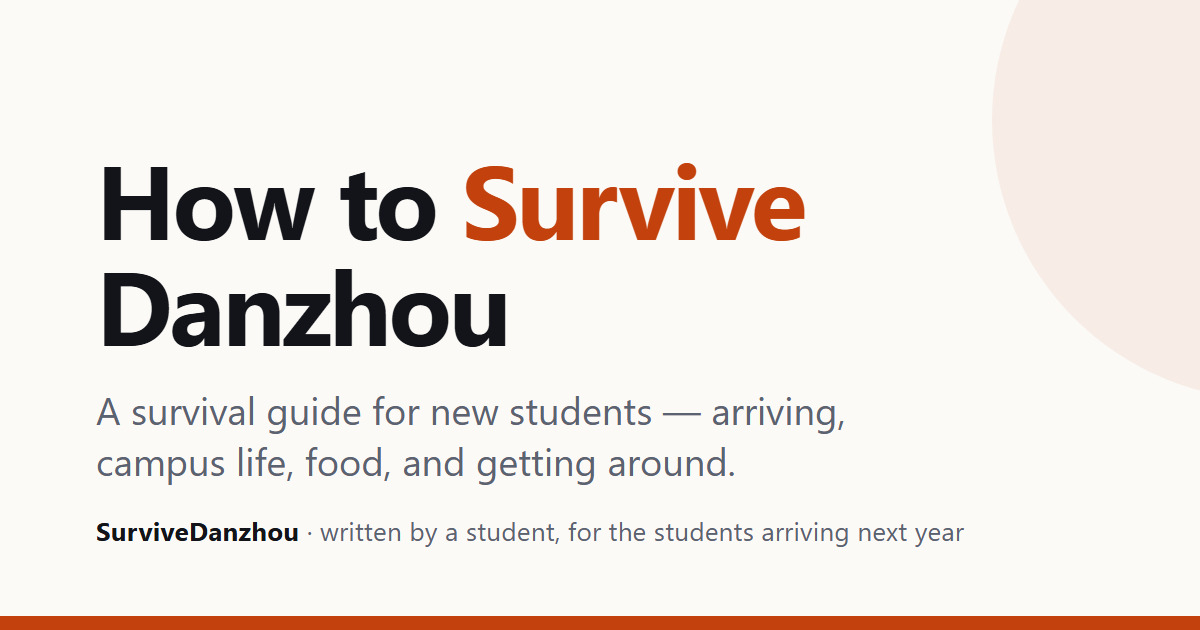
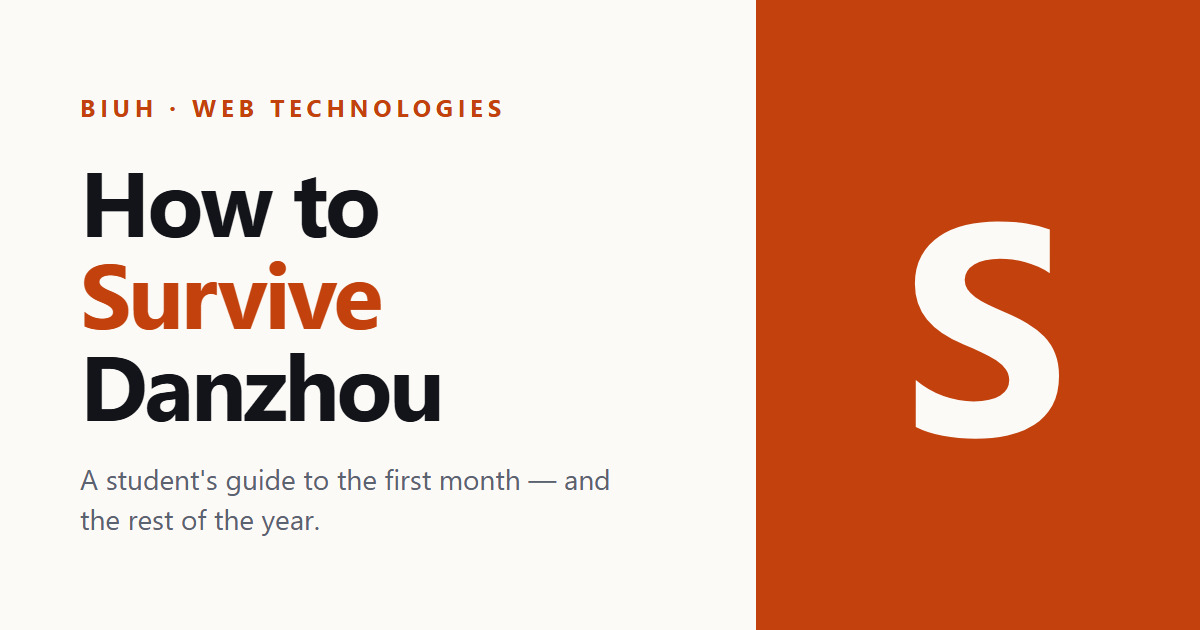
feat: redesign the Open Graph image as a split panel
The old version left the right half empty and its subtitle was unreadable at
the size a link preview is actually shown. New layout follows the deck's
'the title, big · one line on what it is · one visual':

- left column: title plus one sentence, 80 px away from the edge so cropped
  edges cannot clip the text
- right column: the same S mark used by favicon-32.png and apple-touch-icon.png,
  which satisfies the deck's 'same colours, same letter or mark' rule
- 1200x630, 72.3 KB (limit is 100 KB)

diff --git a/images/og-source.html b/images/og-source.html
@@ -6,81 +6,82 @@
 <!--
   ============================================================================
   This file is NOT part of the website. It is the source for images/og-image.jpg,
-  made the way the course suggests: build a 1200 × 630 box in HTML and CSS,
-  then screenshot it.
+  built the way the course suggests: lay it out in HTML and CSS, then screenshot it.
 
-  How to export it:
+  HOW TO EXPORT
     1. open this file in a browser
-    2. DevTools (F12) → Ctrl+Shift+P (Cmd+Shift+P on macOS)
-    3. type "Capture node screenshot"  → click the .canvas element first
-    4. save the result as images/og-image.jpg
+    2. DevTools (F12) → Ctrl+Shift+P  (Cmd+Shift+P on macOS)
+    3. type "Capture node screenshot" → click the .canvas element first
+    4. save as images/og-image.jpg, then check it is under 100 KB
 
-  Specs it must meet (from the project deck):
-    1200 × 630 px exactly · under 100 KB · title not touching the edges
+  SPECS IT MUST MEET (from the project deck, slide 12)
+    · 1200 × 630 px exactly
+    · under 100 KB
+    · the title must not touch the edges — some apps crop the sides
+
+  WHY THIS LAYOUT (slide 12: "the title, big · one line on what it is · one visual")
+    · left column  = title + one line describing the site
+    · right column = one visual: the same "S" mark used by favicon-32.png and
+      apple-touch-icon.png. Slide 16 asks for "the same colours, the same letter
+      or mark" across the poster, the app icon and the favicon — so the letter
+      here is deliberately the same one as in icon-source.html.
+    · everything sits inside a 64-80 px margin so cropped edges cannot eat text
   ============================================================================
 -->
 <style>
-  /* Same palette as the site, so the poster and the pages agree */
+  /* Same palette as the site, so the poster and the pages always agree */
   :root {
-    --paper: #fbfaf7;
-    --ink: #12141a;
-    --dim: #5b6270;
+    --paper:  #fbfaf7;
+    --ink:    #12141a;
+    --dim:    #5b6270;
     --accent: #c2410c;
   }
 
-  body {
-    margin: 0;
-    background: #8b8b8b;              /* grey surround so you can see the edges */
-    display: grid;
-    place-items: center;
-    min-height: 100vh;
-    font-family: -apple-system, BlinkMacSystemFont, "Segoe UI", Roboto,
-                 "Helvetica Neue", Arial, system-ui, sans-serif;
+  * { box-sizing: border-box; margin: 0; padding: 0; }
+
+  html, body {
+    width: 1200px;
+    height: 630px;
+    overflow: hidden;
+    background: #8b8b8b;              /* grey surround: makes the edges visible */
   }
 
-  /* ---- the actual 1200 × 630 canvas ---- */
+  /* ---- the 1200 × 630 canvas that gets screenshotted ---- */
   .canvas {
     width: 1200px;
     height: 630px;
+    display: flex;
+    overflow: hidden;
+    font-family: -apple-system, BlinkMacSystemFont, "Segoe UI", Roboto,
+                 "Helvetica Neue", Arial, system-ui, sans-serif;
+    -webkit-font-smoothing: antialiased;
+  }
+
+  /* ---- left: words ---- */
+  .left {
+    width: 63%;
     background: var(--paper);
     color: var(--ink);
-    position: relative;
-    overflow: hidden;
-    display: grid;
-    align-content: center;            /* vertical centring */
-    padding: 0 96px;
+    padding: 64px 40px 64px 80px;     /* 80 px on the crop side */
+    display: flex;
+    flex-direction: column;
+    justify-content: center;
   }
 
-  /* decorative: a soft warm wash in one corner, no image file needed */
-  .canvas::before {
-    content: "";
-    position: absolute;
-    right: -160px;
-    top: -160px;
-    width: 560px;
-    height: 560px;
-    border-radius: 50%;
-    background: var(--accent);
-    opacity: .07;
-  }
-  .canvas::after {
-    content: "";
-    position: absolute;
-    left: 0;
-    bottom: 0;
-    width: 100%;
-    height: 14px;
-    background: var(--accent);
-  }
-
-  /* A title long enough to be cut off if it hugged the edge — this one does not. */
-  .title {
-    font-size: 104px;
-    line-height: 1.02;
-    letter-spacing: -0.03em;
+  .kicker {
+    font-size: 24px;
+    letter-spacing: .2em;
+    text-transform: uppercase;
+    color: var(--accent);
     font-weight: 700;
-    margin: 0 0 28px;
-    max-width: 900px;
+    margin-bottom: 30px;
+  }
+
+  .title {
+    font-size: 92px;
+    line-height: 1;
+    letter-spacing: -.035em;
+    font-weight: 700;
   }
   .title em {
     font-style: normal;
@@ -88,38 +89,45 @@
   }
 
   .sub {
-    font-size: 38px;
-    line-height: 1.35;
+    font-size: 28px;
+    line-height: 1.42;
     color: var(--dim);
-    margin: 0;
-    max-width: 820px;
+    margin-top: 30px;
+    max-width: 560px;
   }
 
-  .foot {
-    position: absolute;
-    left: 96px;
-    bottom: 56px;
-    font-size: 26px;
-    color: var(--dim);
-    letter-spacing: .01em;
+  /* ---- right: one visual, the shared "S" mark ---- */
+  .right {
+    width: 37%;
+    background: var(--accent);
+    display: grid;
+    place-items: center;
+    position: relative;
   }
-  .foot strong { color: var(--ink); }
-
-  /* guides: must stay inside the dashed safe area (teacher: "keep the words inside it") */
-  .safe-area {
-    position: absolute;
-    inset: 48px;
-    border: 2px dashed rgba(194, 65, 12, .35);
-    pointer-events: none;
+  .mark {
+    font-size: 300px;
+    line-height: .78;
+    font-weight: 700;
+    letter-spacing: -.05em;
+    color: var(--paper);
+    transform: translateY(-4px);
   }
 </style>
 </head>
-<body data-export="false">
+<body>
 
   <div class="canvas" data-og-canvas>
-    <p class="title">How to <em>Survive</em><br>Danzhou</p>
-    <p class="sub">A survival guide for new students — arriving, campus life, food, and getting around.</p>
-    <p class="foot"><strong>SurviveDanzhou</strong> · written by a student, for the students arriving next year</p>
+
+    <div class="left">
+      <p class="kicker">BiUH · Web Technologies</p>
+      <p class="title">How to<br><em>Survive</em><br>Danzhou</p>
+      <p class="sub">A student's guide to the first month — and the rest of the year.</p>
+    </div>
+
+    <div class="right">
+      <span class="mark">S</span>
+    </div>
+
   </div>
 
 </body>
